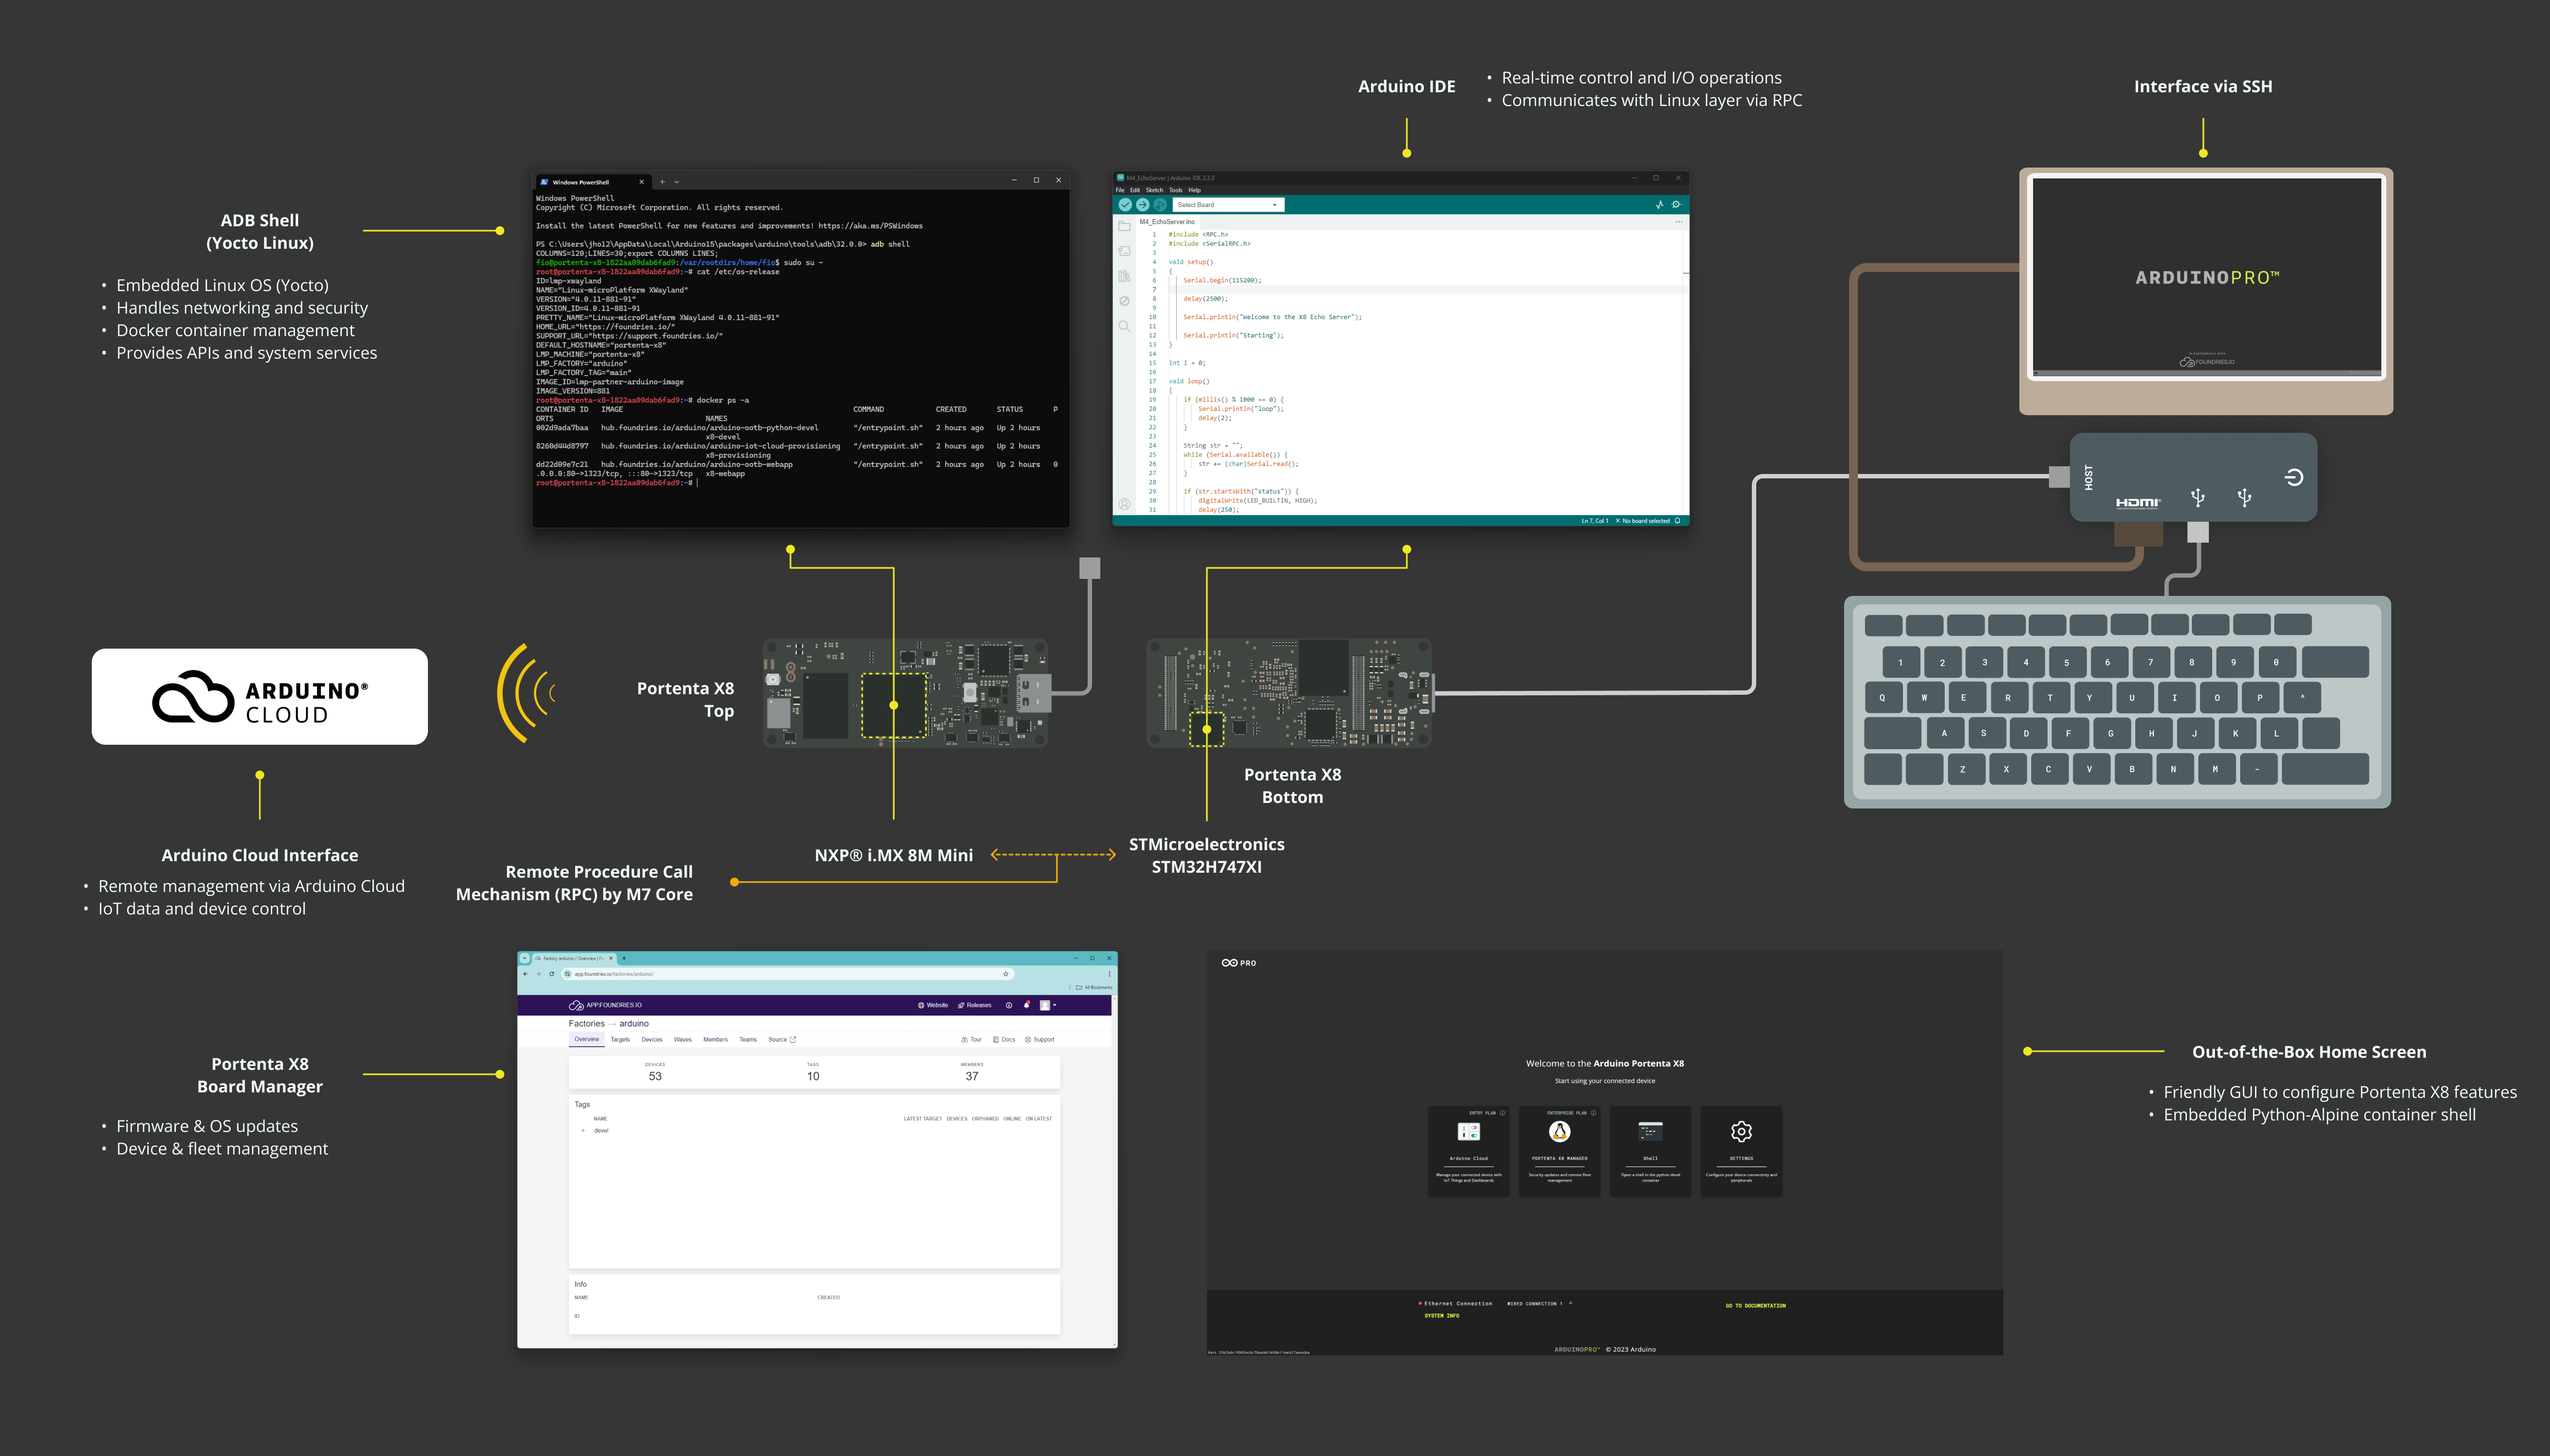
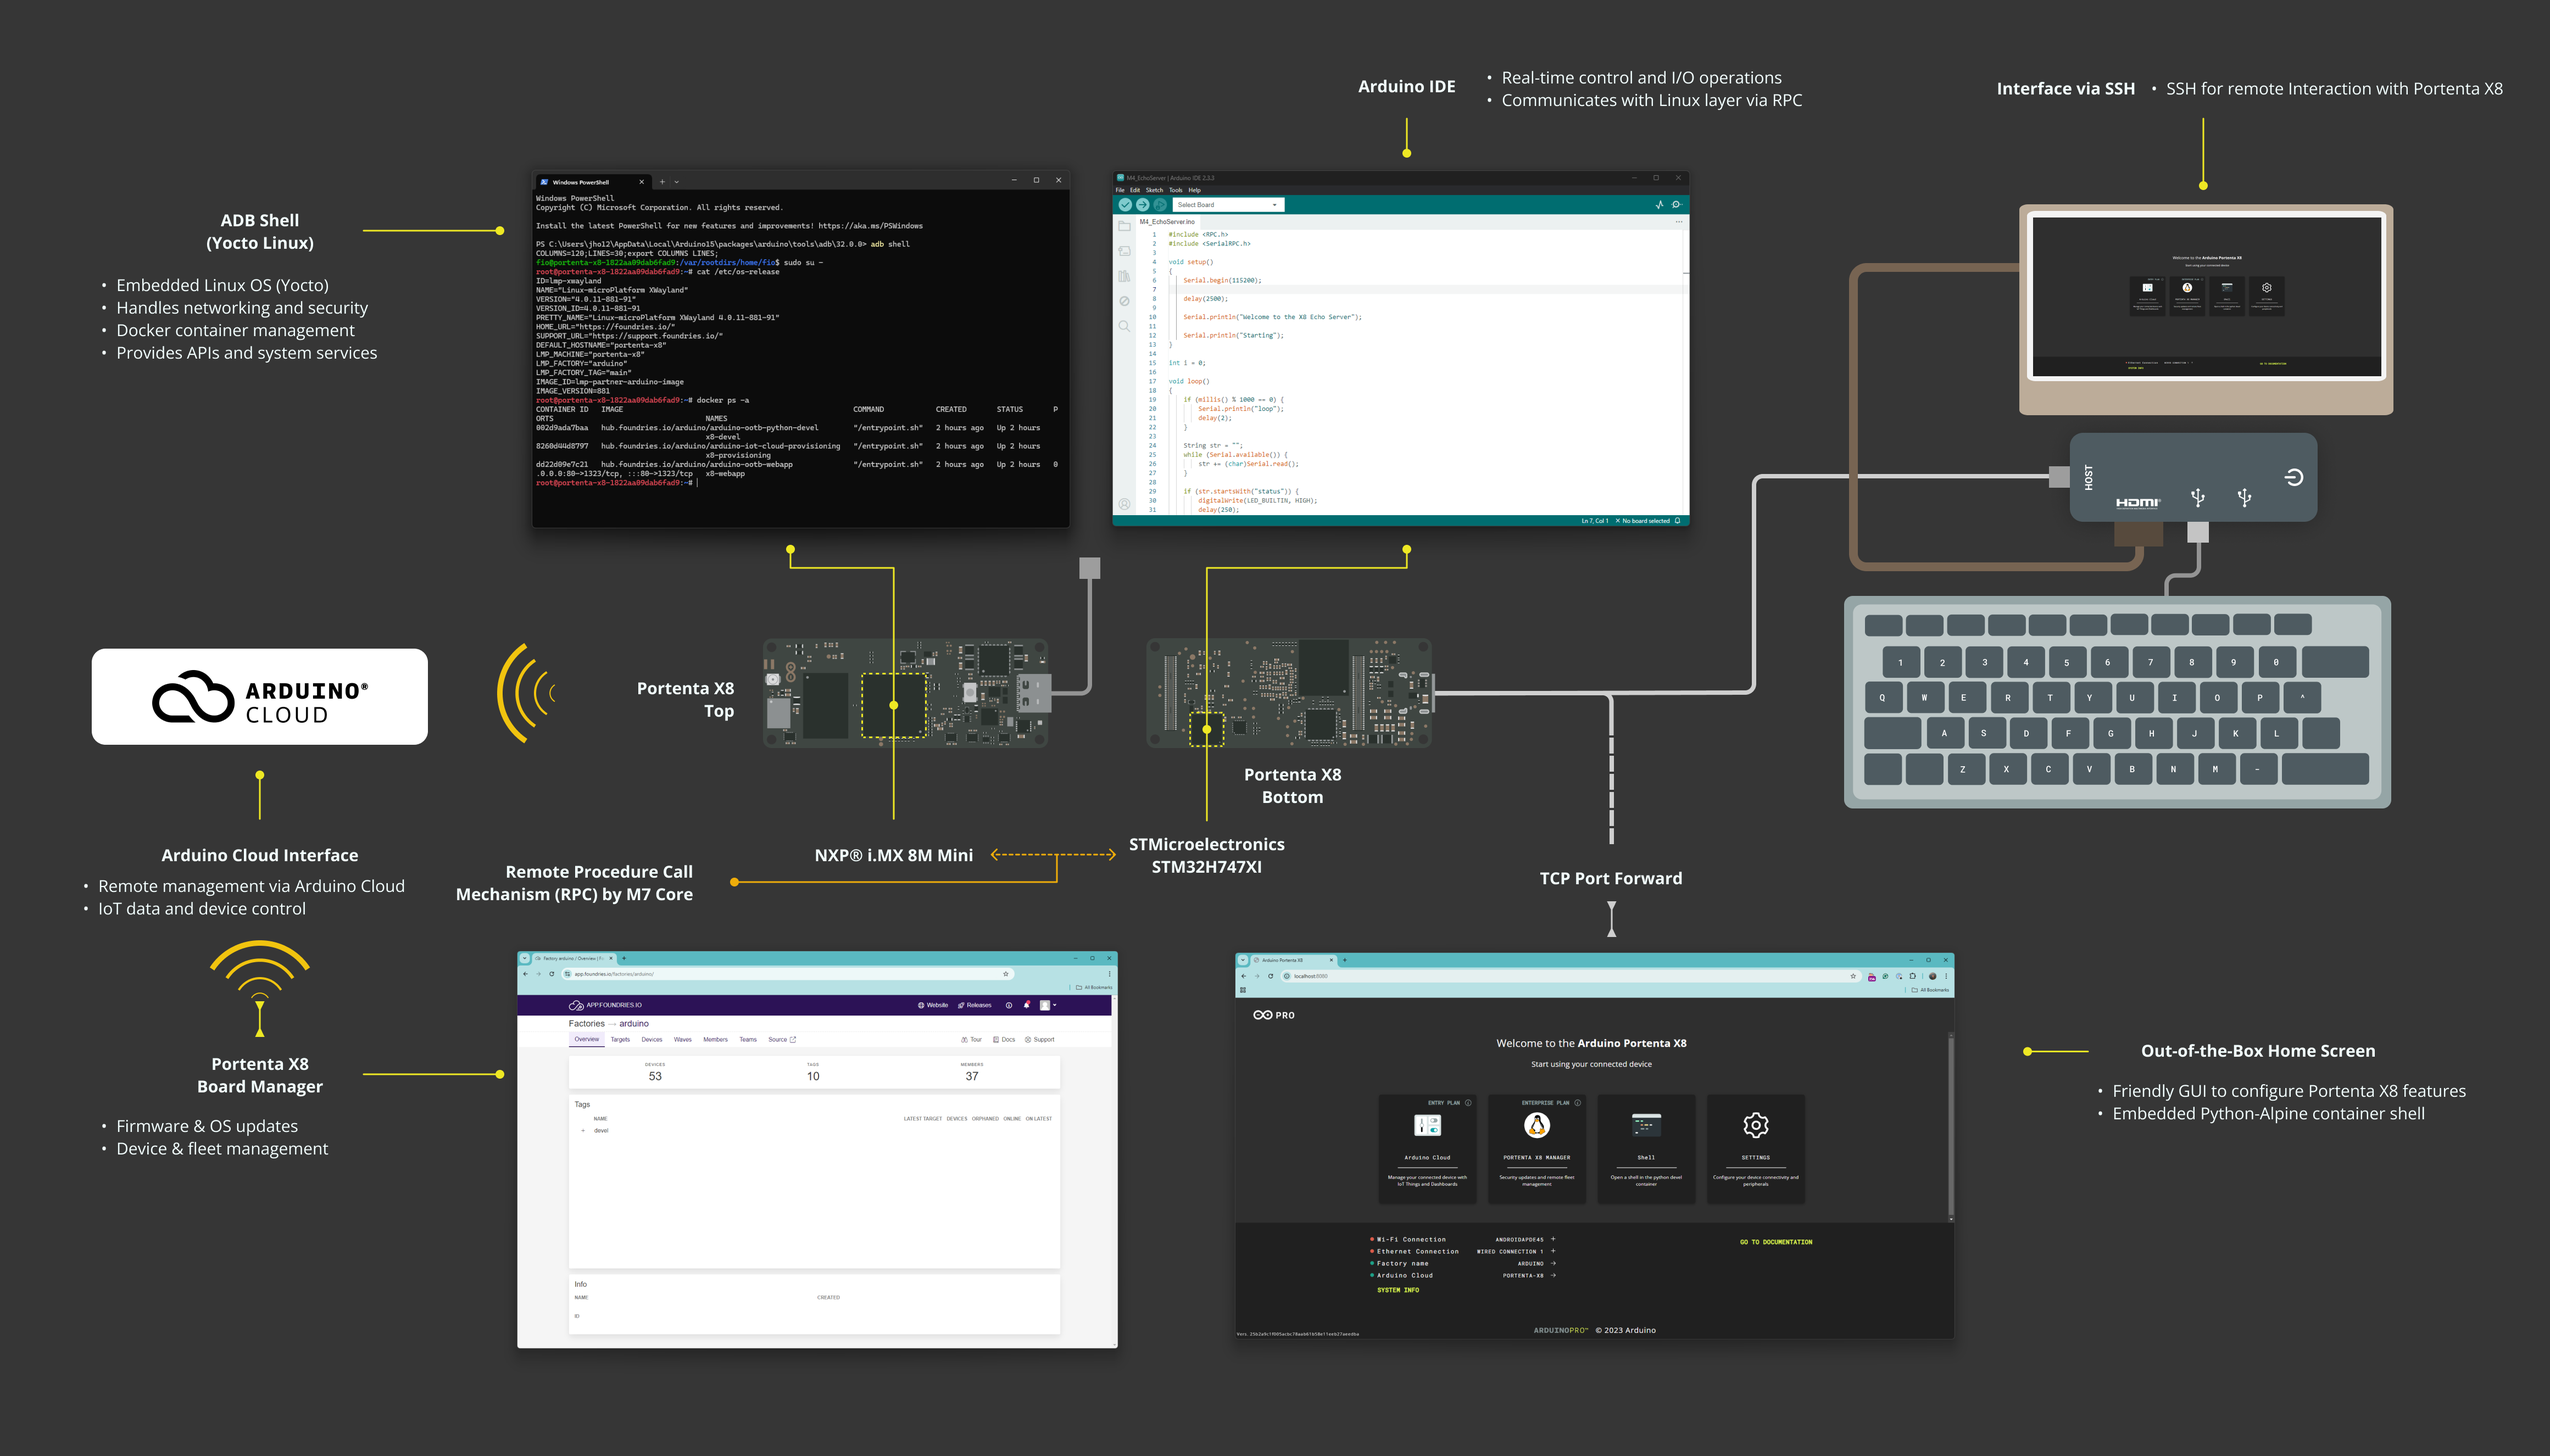
Documentation content post pre review update

diff --git a/content/hardware/04.pro/boards/portenta-x8/tutorials/01.user-manual/content.md b/content/hardware/04.pro/boards/portenta-x8/tutorials/01.user-manual/content.md
@@ -194,7 +194,7 @@ You can now proceed to the setup of the board connectivity by clicking **OK, GOT
 
 ***If you face any issue with this flow or prefer to interact directly with your Portenta X8 through the command line, please refer to [this section](#working-with-linux) to learn how to connect with the board leveraging ADB service.***
 
-Once the setup is ready, let's open the Out-of-the-box page. Use the command line window and launch the following command:
+Once the setup is ready, let's open the Out-of-the-box page. Use the command line window and launch the TCP port forwarding setup command:
 
 ```bash
 adb forward tcp:8080 tcp:80
@@ -935,9 +935,9 @@ If you are a more advanced user, you can check [Multi-Protocol Gateway With Port
 
 ## Working With Portenta X8 Board Manager
 
-The Portenta X8 Board Manager helps you to keep your Portenta X8 Linux image and containers up to date, even remotely, using Over-The-Air (OTA) updates via wireless connectivity.
+The Portenta X8 Board Manager helps you keep your Portenta X8 Linux image and containers up to date, even remotely, using Over-The-Air (OTA) updates via wireless connectivity.
 
-To access these features, an **Arduino Cloud for Business** plan with Portenta X8 Board Manager subscription is required.
+An **Arduino Cloud for Business** plan with a Portenta X8 Board Manager subscription is required to enable these features.
 
 **For more information on configuration and environment exploration, please refer to the [Portenta X8 Board Manager](#portenta-x8-board-manager) section at the beginning of the user manual.**
 
